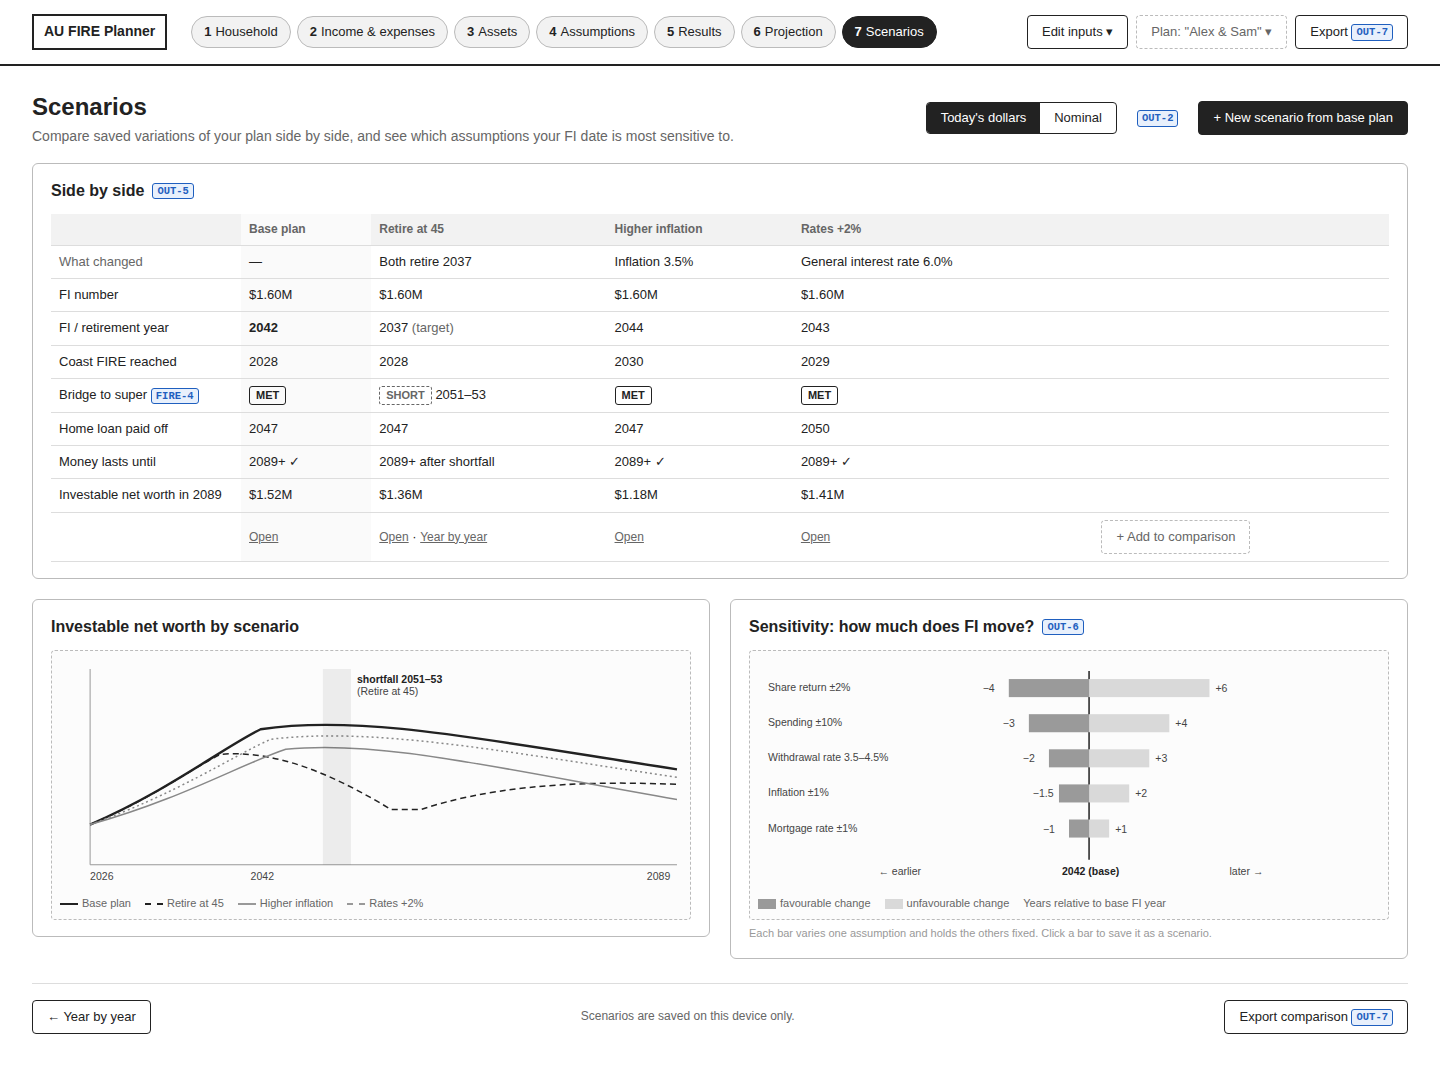
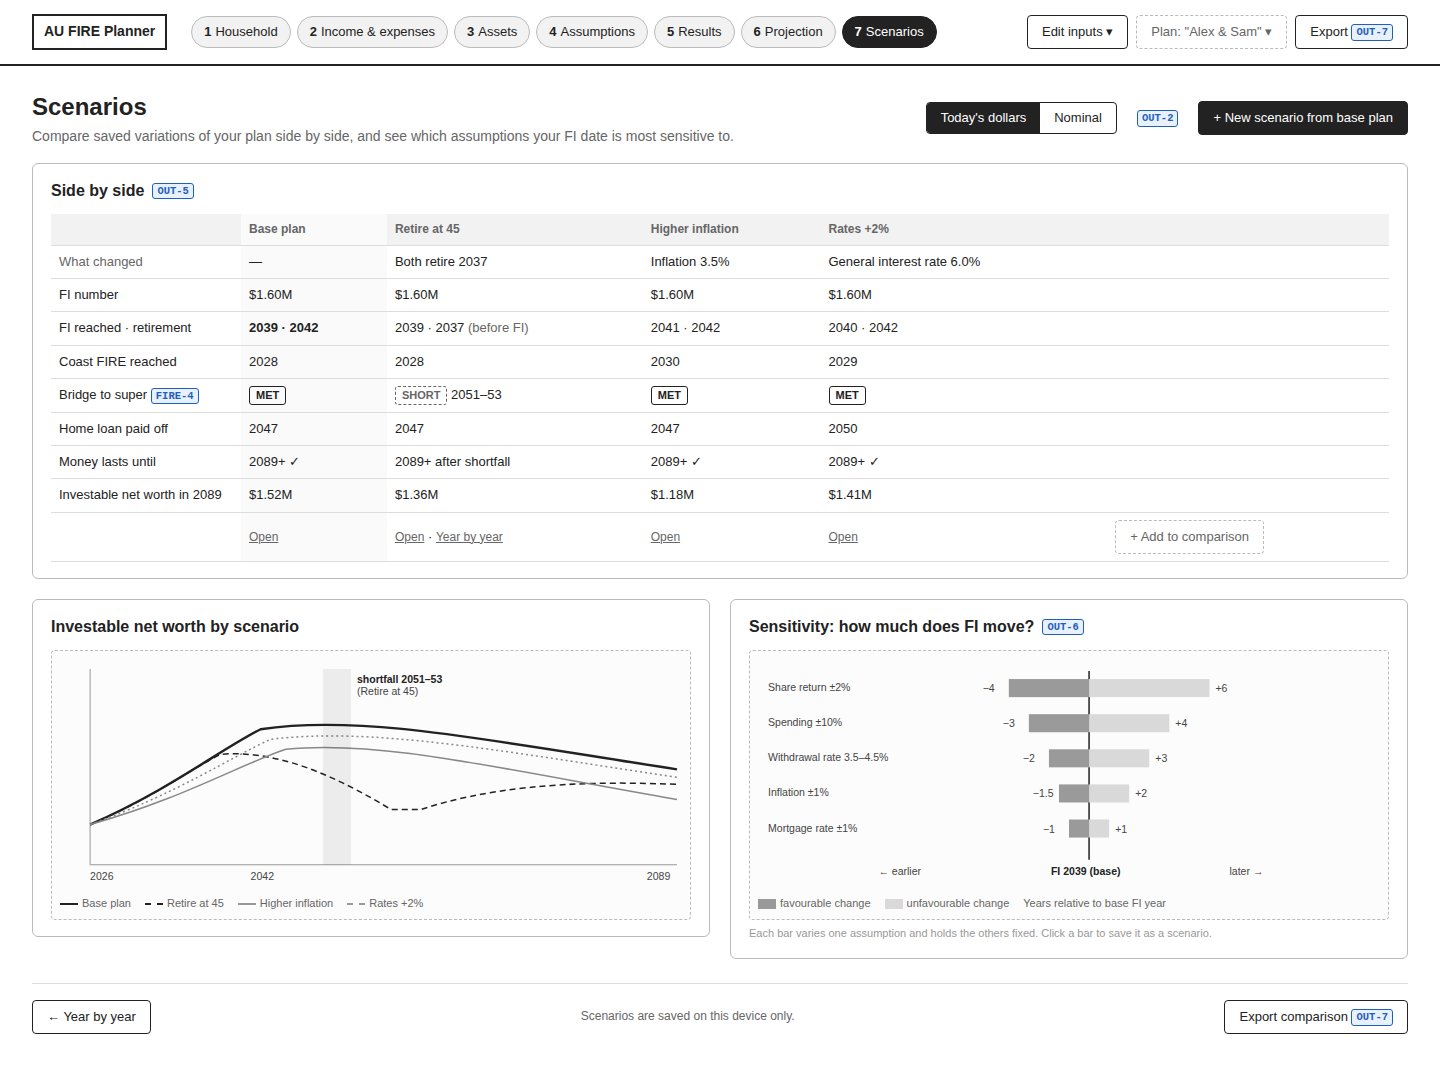
Show contribution choices after Coast FIRE in the results mockup
Review asked to show what happens to regular contributions once Coast
FIRE is reached (COAST-7). The results mockup now has:

- a comparison table for after Coast FIRE in 2028: keep contributing
  (FI in 2039), halve contributions (FI in 2041) or stop (FI in 2042,
  on target), with the balance in 2042 and what each choice buys;
- a "stop contributing at Coast FIRE" line on the Coast FIRE chart,
  next to the current-contributions line.

Working this through exposed an inconsistency in the earlier mockup.
It showed FI reached in 2042, the same year as the target retirement,
which would put Coast FIRE in 2042 rather than 2028. The example now
reaches FI in 2039 with contributions and retires as planned in 2042.
The FIRE chart, milestones, headline retirement figure and scenario
comparison are updated to match.

Claude-Session: https://claude.ai/code/session_01CkXEKQ2deJcmokvWZ3pCCG

diff --git a/requirements/mockups/src/05-results.html b/requirements/mockups/src/05-results.html
@@ -58,9 +58,9 @@
         <div class="sub">$720k investable of $1.60M</div>
       </div>
       <div class="metric">
-        <div class="label">Earliest retirement <span class="req">FIRE-3</span></div>
+        <div class="label">Retirement <span class="req">FIRE-3</span></div>
         <div class="value">2042</div>
-        <div class="sub">Alex 50 (target) · Sam 48 (earliest feasible)</div>
+        <div class="sub">Alex 50 · Sam 48 · FI reached in 2039, so retiring from 2039 is feasible</div>
       </div>
       <div class="metric">
         <div class="label">Coast FIRE number <span class="req">COAST-1 · COAST-2</span></div>
@@ -101,8 +101,9 @@
         <div class="timeline">
           <div class="bar"></div>
           <div class="m" style="left: 4%"><b>2028</b><i></i><span>Coast FIRE</span></div>
-          <div class="m key" style="left: 22%"><b>2042</b><i></i><span>FI · both retire</span></div>
-          <div class="m" style="left: 36%"><b>2047</b><i></i><span>Home loan paid off</span></div>
+          <div class="m key" style="left: 15%"><b>2039</b><i></i><span>FI reached</span></div>
+          <div class="m key" style="left: 26%"><b>2042</b><i></i><span>Both retire</span></div>
+          <div class="m" style="left: 37%"><b>2047</b><i></i><span>Home loan paid off</span></div>
           <div class="m" style="left: 50%"><b>2054</b><i></i><span>Sam's super accessible</span></div>
           <div class="m" style="left: 64%"><b>2057</b><i></i><span>Alex's super accessible → retirement phase</span></div>
           <div class="m key" style="left: 88%"><b>2089+</b><i></i><span>Money lasts past end of plan ✓</span></div>
@@ -119,11 +120,13 @@
             <line class="axis" x1="30" y1="175" x2="395" y2="175"/><line class="axis" x1="30" y1="10" x2="30" y2="175"/>
             <line x1="30" y1="70" x2="395" y2="70" stroke="#222" stroke-width="1.5" stroke-dasharray="6 4"/>
             <text x="300" y="64">FI number $1.60M</text>
-            <path d="M30,140 C70,120 100,90 120,70 C160,50 220,55 260,70 C300,85 350,100 395,110" fill="none" stroke="#222" stroke-width="2.2"/>
-            <line x1="120" y1="20" x2="120" y2="175" stroke="#999" stroke-dasharray="3 3"/>
-            <circle cx="120" cy="70" r="5" fill="#222"/>
-            <text class="strong" x="126" y="28">FI in 2042</text>
-            <text x="30" y="190">2026</text><text x="108" y="190">2042</text><text x="200" y="190">2060</text><text x="370" y="190">2089</text>
+            <path d="M30,140 C60,122 88,92 105,70 C150,40 220,52 260,66 C300,82 350,100 395,110" fill="none" stroke="#222" stroke-width="2.2"/>
+            <line x1="105" y1="20" x2="105" y2="175" stroke="#999" stroke-dasharray="3 3"/>
+            <line x1="123" y1="20" x2="123" y2="175" stroke="#222" stroke-dasharray="3 3"/>
+            <circle cx="105" cy="70" r="5" fill="#222"/>
+            <text class="strong" x="101" y="28" text-anchor="end">FI 2039</text>
+            <text class="strong" x="127" y="28">retire 2042</text>
+            <text x="30" y="190">2026</text><text x="92" y="190">2039</text><text x="118" y="190">2042</text><text x="200" y="190">2060</text><text x="370" y="190">2089</text>
             <text x="2" y="74">1.6M</text>
           </svg>
           <div class="legend"><span><i></i>investable net worth</span><span><i class="dash"></i>FI number</span></div>
@@ -179,15 +182,22 @@
             <!-- Coast FIRE number rises toward the FI number by 2042 -->
             <path d="M40,120 C250,100 500,70 810,30" fill="none" stroke="#999" stroke-width="2" stroke-dasharray="3 3"/>
             <!-- Projected assets with contributions -->
-            <path d="M40,140 C120,112 200,90 300,70 C450,45 600,32 810,20" fill="none" stroke="#222" stroke-width="2.2"/>
+            <path d="M40,140 C120,112 200,90 300,70 C450,48 580,36 665,30 C720,26 770,22 810,18" fill="none" stroke="#222" stroke-width="2.2"/>
+            <circle cx="665" cy="30" r="5" fill="#222"/>
+            <text class="strong" x="655" y="21" text-anchor="end">keep contributing: FI 2039</text>
+            <!-- Stop contributing at Coast FIRE: the balance then tracks the Coast FIRE number to the FI number in 2042 -->
+            <clipPath id="after-coast"><rect x="112" y="0" width="720" height="220"/></clipPath>
+            <path d="M40,120 C250,100 500,70 810,30" fill="none" stroke="#888" stroke-width="3.5" clip-path="url(#after-coast)"/>
+            <circle cx="810" cy="30" r="5" fill="#888"/>
             <!-- Current assets with no further contributions -->
             <path d="M40,140 C300,120 550,85 810,55" fill="none" stroke="#222" stroke-width="1.5" stroke-dasharray="1 4" stroke-linecap="round"/>
             <circle cx="112" cy="115" r="6" fill="#222"/>
             <line x1="112" y1="115" x2="112" y2="195" stroke="#999" stroke-dasharray="3 3"/>
             <text class="strong" x="120" y="150">Coast FIRE reached: 2028 (projected)</text>
+            <text x="120" y="164">from here, contributions are optional</text>
             <text x="40" y="212">2026</text><text x="100" y="212">2028</text><text x="785" y="212">2042</text>
           </svg>
-          <div class="legend"><span><i></i>projected assets (current contributions)</span><span><i class="dash light"></i>Coast FIRE number</span><span><i class="dash"></i>FI number</span><span>··· today's $720k with no further contributions (reaches $1.45M, short of FI)</span></div>
+          <div class="legend"><span><i></i>projected assets (current contributions)</span><span><i class="dash light"></i>Coast FIRE number</span><span><i class="dash"></i>FI number</span><span><i class="block2" style="height: 3px"></i>stop contributing at Coast FIRE: FI 2042 on target</span><span>··· today's $720k with no further contributions (reaches $1.45M, short of FI)</span></div>
         </div>
       </div>
 
@@ -209,6 +219,17 @@
           <div class="sub">Covers today's spending. Employer super keeps flowing while working.</div>
         </div>
       </div>
+    </div>
+
+    <div class="card" style="margin-top: 20px">
+      <h3>After Coast FIRE in 2028: keep contributing, ease off, or stop? <span class="req">COAST-7</span></h3>
+      <table>
+        <tr><th>Option from 2028</th><th>Voluntary contributions / yr</th><th>FI reached</th><th>Investable in 2042</th><th>What it buys</th></tr>
+        <tr><td><b>Keep contributing</b> (current plan)</td><td>$60k</td><td><b>2039</b> · 3 years early</td><td>$2.05M</td><td>Retire from 2039, or about $18k/yr more retirement spending</td></tr>
+        <tr><td>Halve contributions</td><td>$30k</td><td>2041 · 1 year early</td><td>$1.82M</td><td>$30k/yr freed now · about $9k/yr more retirement spending</td></tr>
+        <tr><td>Stop contributing (coast)</td><td>$0 · employer super continues</td><td>2042 · on target</td><td>$1.60M</td><td>$60k/yr freed now · household needs $74k/yr gross income <span class="req">COAST-4</span></td></tr>
+      </table>
+      <div class="hint" style="margin-top: 6px">Voluntary contributions are the ETF contributions plus salary sacrifice. Choose an option to save it as a scenario.</div>
     </div>
 
     <div class="footer-nav">

diff --git a/requirements/mockups/src/07-scenarios.html b/requirements/mockups/src/07-scenarios.html
@@ -31,7 +31,7 @@
         <tr><th></th><th class="base">Base plan</th><th>Retire at 45</th><th>Higher inflation</th><th>Rates +2%</th><th></th></tr>
         <tr><td class="muted">What changed</td><td class="base">—</td><td>Both retire 2037</td><td>Inflation 3.5%</td><td>General interest rate 6.0%</td><td></td></tr>
         <tr><td>FI number</td><td class="base">$1.60M</td><td>$1.60M</td><td>$1.60M</td><td>$1.60M</td><td></td></tr>
-        <tr><td>FI / retirement year</td><td class="base"><b>2042</b></td><td>2037 <span class="muted">(target)</span></td><td>2044</td><td>2043</td><td></td></tr>
+        <tr><td>FI reached · retirement</td><td class="base"><b>2039 · 2042</b></td><td>2039 · 2037 <span class="muted">(before FI)</span></td><td>2041 · 2042</td><td>2040 · 2042</td><td></td></tr>
         <tr><td>Coast FIRE reached</td><td class="base">2028</td><td>2028</td><td>2030</td><td>2029</td><td></td></tr>
         <tr><td>Bridge to super <span class="req">FIRE-4</span></td><td class="base"><span class="status">MET</span></td><td><span class="status no">SHORT</span> 2051–53</td><td><span class="status">MET</span></td><td><span class="status">MET</span></td><td></td></tr>
         <tr><td>Home loan paid off</td><td class="base">2047</td><td>2047</td><td>2047</td><td>2050</td><td></td></tr>
@@ -64,7 +64,7 @@
         <div class="chart">
           <svg viewBox="0 0 620 230">
             <line x1="330" y1="12" x2="330" y2="200" stroke="#222" stroke-width="1.5"/>
-            <text class="strong" x="303" y="215">2042 (base)</text>
+            <text class="strong" x="292" y="215">FI 2039 (base)</text>
             <text x="120" y="215">← earlier</text><text x="470" y="215">later →</text>
             <!-- Rows: assumption label, bar left (better case), bar right (worse case) -->
             <text x="10" y="32">Share return ±2%</text>

diff --git a/requirements/mockups/README.md b/requirements/mockups/README.md
@@ -33,7 +33,7 @@ They show one possible user flow and screen layout for the requirements in
 | 03c | [Assets: investment property](03c-assets-investment-property.png) | PROP-14 – PROP-17, TAX-5, TAX-6, FIRE-5 |
 | 03d | [Assets: super, cash & debts](03d-assets-super-cash-debts.png) | IN-21 – IN-27, SUPER-1 – SUPER-9 |
 | 04 | [Assumptions](04-assumptions.png) | IN-10 – IN-13, TAX-8, NFR-3 |
-| 05 | [Results dashboard](05-results.png) | FIRE-1 – FIRE-7, COAST-1 – COAST-6, OUT-2, OUT-4, NFR-1 |
+| 05 | [Results dashboard](05-results.png) | FIRE-1 – FIRE-7, COAST-1 – COAST-7, OUT-2, OUT-4, NFR-1 |
 | 05b | [Inputs panel](05b-inputs-panel.png) | Editing any input from Results, Year by year or Scenarios without leaving the page |
 | 06 | [Year by year](06-projection.png) | OUT-1 – OUT-3 (shown for a scenario with a bridge-period shortfall) |
 | 07 | [Scenarios](07-scenarios.png) | OUT-5, OUT-6 |
